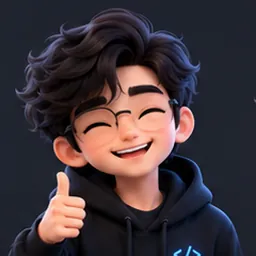
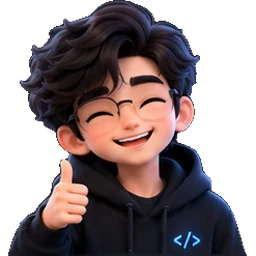
feat(chatbot): transparent cut-out mascot, no background disc
- Re-cut all mascot images from the reference sheet with rembg (transparent WebP)
- Removed circular crop and launcher backdrop; soft contact shadow, cool rim in dark mode
- MASCOT_PIPELINE.md: how to regenerate the transparent avatars

diff --git a/src/components/chatbot/MascotFallback.tsx b/src/components/chatbot/MascotFallback.tsx
@@ -23,8 +23,17 @@ export default function MascotFallback({
   const src = mascotImage(expression, size, theme, icon);
   return (
     <motion.div
-      className="relative overflow-hidden rounded-full"
-      style={{ width: size, height: size }}
+      // Transparent cut-out figure: no disc, no backdrop. A soft contact shadow
+      // grounds it; in dark mode a faint cool rim keeps black hair/hoodie readable.
+      className="relative"
+      style={{
+        width: size,
+        height: size,
+        filter:
+          theme === "dark"
+            ? "drop-shadow(0 0 1px rgba(125,211,252,0.55)) drop-shadow(0 6px 10px rgba(0,0,0,0.55))"
+            : "drop-shadow(0 6px 10px rgba(15,23,42,0.22))",
+      }}
       animate={animate ? { y: [0, -size * 0.025, 0], scale: [1, 1.012, 1] } : undefined}
       transition={animate ? { duration: 4, repeat: Infinity, ease: "easeInOut" } : undefined}
     >
@@ -41,7 +50,7 @@ export default function MascotFallback({
           animate={{ opacity: 1 }}
           exit={{ opacity: 0 }}
           transition={{ duration: 0.25 }}
-          className="absolute inset-0 w-full h-full object-cover select-none"
+          className="absolute inset-0 w-full h-full object-contain select-none"
         />
       </AnimatePresence>
     </motion.div>

diff --git a/src/components/ui/Chatbot.tsx b/src/components/ui/Chatbot.tsx
@@ -478,7 +478,7 @@ export default function Chatbot() {
           whileTap={reduceMotion ? undefined : { scale: 0.94 }}
           aria-label={isOpen ? "Close chat assistant" : "Open chat assistant"}
           aria-expanded={isOpen}
-          className="relative block rounded-full focus:outline-none focus-visible:ring-2 focus-visible:ring-[#D97757] drop-shadow-[0_10px_18px_rgba(0,0,0,0.28)]"
+          className="relative block bg-transparent rounded-2xl focus:outline-none focus-visible:ring-2 focus-visible:ring-[#D97757]"
         >
           <ChatbotMascot icon expression={listening ? "listening" : waiting ? "thinking" : emotion} size={76} />
           {!isOpen && (

diff --git a/MASCOT_PIPELINE.md b/MASCOT_PIPELINE.md
@@ -134,3 +134,15 @@ Or render them from the finished GLB in Blender (a transparent background, a hea
 | Small-size readability (28–76 px) | ✅ Uses the cropped busts and app icons |
 | Front, side and back previews | ⏳ Available on the reference sheet; renderable from the GLB in Blender |
 | Lip-sync | ❌ Not implemented. `mouthOpen` is static per state and isn't driven by audio timing |
+
+## Regenerating the transparent 2D avatars (updated 2026-10-22)
+
+The images in `public/mascot/` are **transparent cut-outs**: no backdrop, disc or glow, just the figure. They were made with [rembg](https://github.com/danielgatis/rembg) (free, local, model `isnet-general-use`):
+
+```bash
+python -m venv rbenv && rbenv/Scripts/python -m pip install "rembg[cpu]" pillow
+# crop each tile from the reference sheet, then:
+rbenv/Scripts/python -c "from rembg import remove,new_session;from PIL import Image;s=new_session('isnet-general-use');remove(Image.open('tile.png'),session=s,post_process_mask=True).save('cut.png')"
+```
+
+Trim to the alpha bounding box, pad to a square with the shoulders on the bottom edge, and export `<name>-256.webp` and `<name>-128.webp` (quality 88). The main avatar (`avatar-light` / `avatar-dark`) uses the same cut-out in both themes; dark mode only adds a faint cool rim via CSS.
